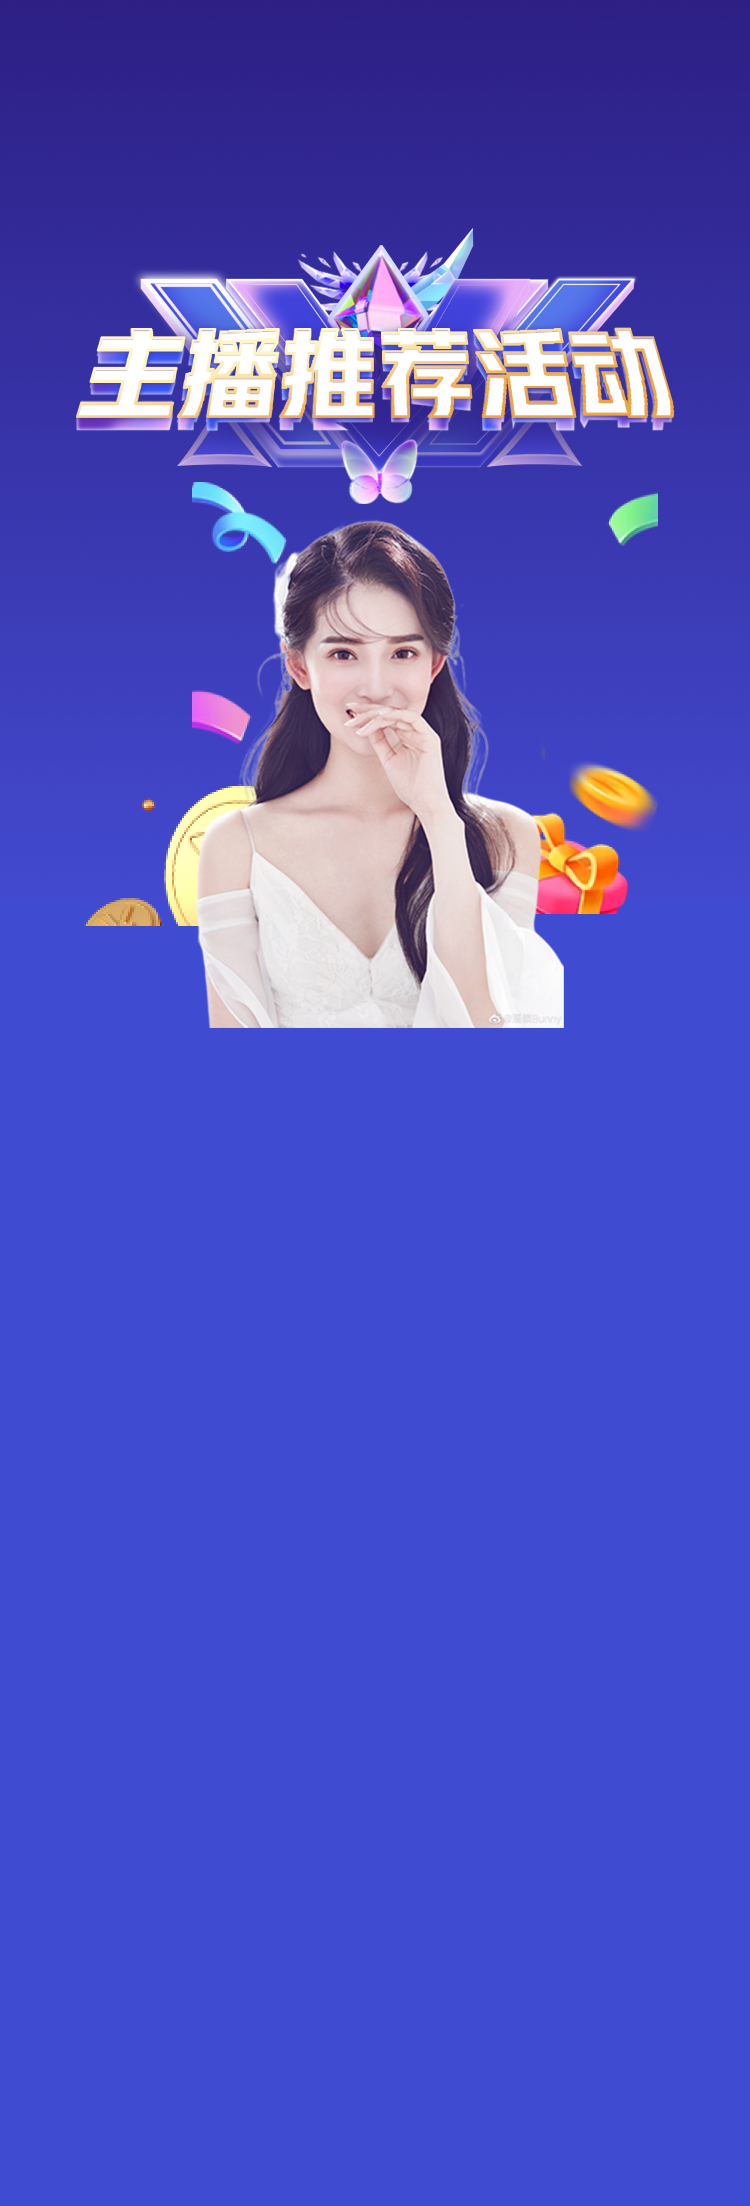
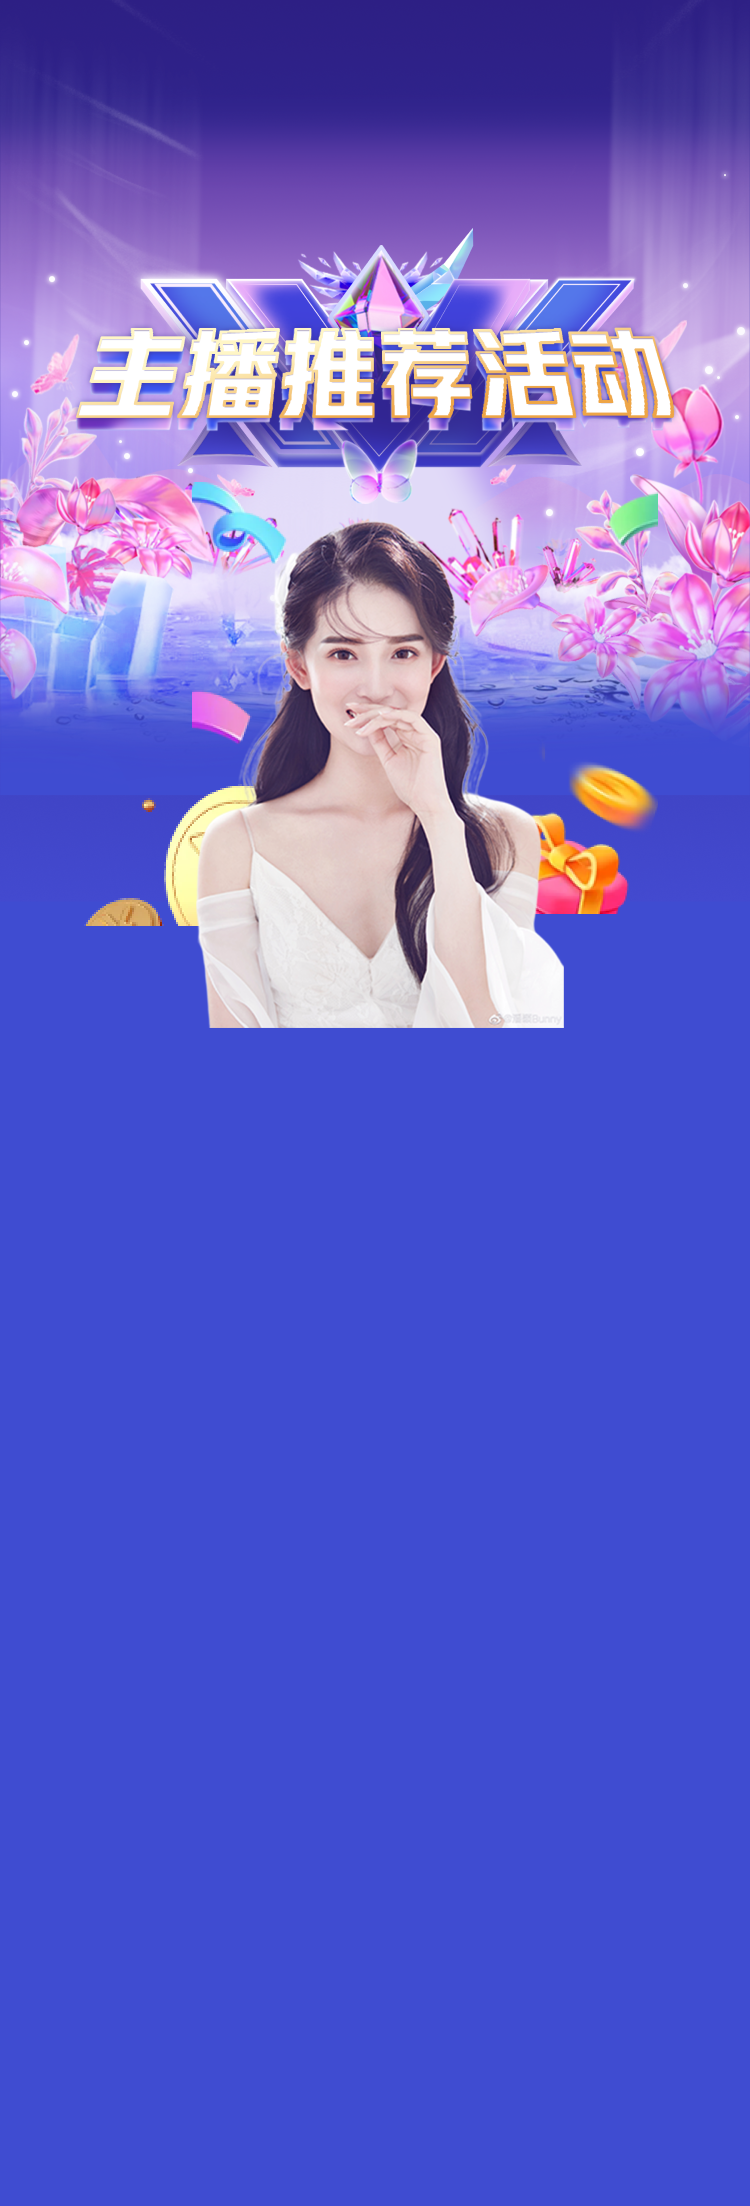
fix
fix

Changed region(s): [[0.0, 0.0308, 1.0, 0.3391]]

diff --git a/style.css b/style.css
@@ -29,30 +29,26 @@ p {
   margin-top: 0;
 }
 .container-basic {
-  background-image: url(./img/back.png);
-  background-repeat: no-repeat;
-  background-position: center center;
-  background-attachment: fixed;
-  -webkit-background-size: cover;
-  -moz-background-size: cover;
-  -o-background-size: cover;
-  background-size: cover;
-  padding-top: 384px;
-  padding-left: 29px;
-  padding-right: 29px;
-  padding-bottom: 76px;
+  position: relative;
+}
+
+.background-photo__elem {
+  width: 100%;
 }
 .container {
+  position: absolute;
+  top: 41%;
+  left: 50%;
+  transform: translateX(-50%);
+  width: calc(100% - 60px);
   background: rgba(255, 255, 255, 1);
-  padding-top: 22px;
-  padding-bottom: 22px;
+  padding: 25px;
   border-radius: 34px;
 }
 .flex-container__menu {
   display: flex;
-  justify-content: space-between;
+  justify-content: space-around;
   margin: auto;
-  width: 193px;
 }
 .margin-bot {
   border-bottom: 0.5px solid #fccef5;
@@ -61,7 +57,6 @@ p {
   margin-bottom: 5px;
 }
 .flex-container__footer {
-  width: 270px;
   display: flex;
   margin: auto;
   flex-direction: column;
@@ -72,7 +67,6 @@ p {
   background: linear-gradient(270deg, #e5c4ff 0%, #ffbae1 96%);
   border-radius: 37px;
   margin-bottom: 10px;
-  width: 284px;
   justify-content: space-around;
 }
 .img-title {
@@ -105,8 +99,6 @@ p {
   margin-bottom: 6px;
 }
 .div-text {
-  width: 270px;
-
   color: rgba(12, 22, 51, 0.56);
 }
 .text-color {
@@ -116,7 +108,6 @@ p {
   margin-bottom: 6px;
 }
 .container-button {
-  width: 174px;
   height: 33px;
 
   border-radius: 37px;
@@ -135,4 +126,26 @@ p {
 }
 .div-container {
   margin-bottom: 22px;
+}
+
+.circle-left {
+  width: 200px;
+  height: 200px;
+  border-radius: 50%;
+  position: absolute;
+  background: rgba(255, 201, 255, 0.3);
+  left: -5px;
+  top: -14px;
+  filter: blur(15px);
+}
+
+.circle-right {
+  width: 200px;
+  height: 200px;
+  border-radius: 50%;
+  position: absolute;
+  background: rgba(199, 242, 255, 0.3);
+  right: -5px;
+  top: -14px;
+  filter: blur(15px);
 }

diff --git a/index.html b/index.html
@@ -9,8 +9,15 @@
   </head>
   <body>
     <div class="container-basic">
+      <img
+        class="background-photo__elem"
+        src="./img/back.png"
+        alt="bacground"
+      />
       <div class="container">
         <h2 class="img-title"><img src="./img/onetitle.png" alt="title" /></h2>
+        <div class="circle-right"></div>
+        <div class="circle-left"></div>
         <table class="menu-table">
           <div class="flex-container__menu table-title">
             <div class="title-table">一级主播</div>
